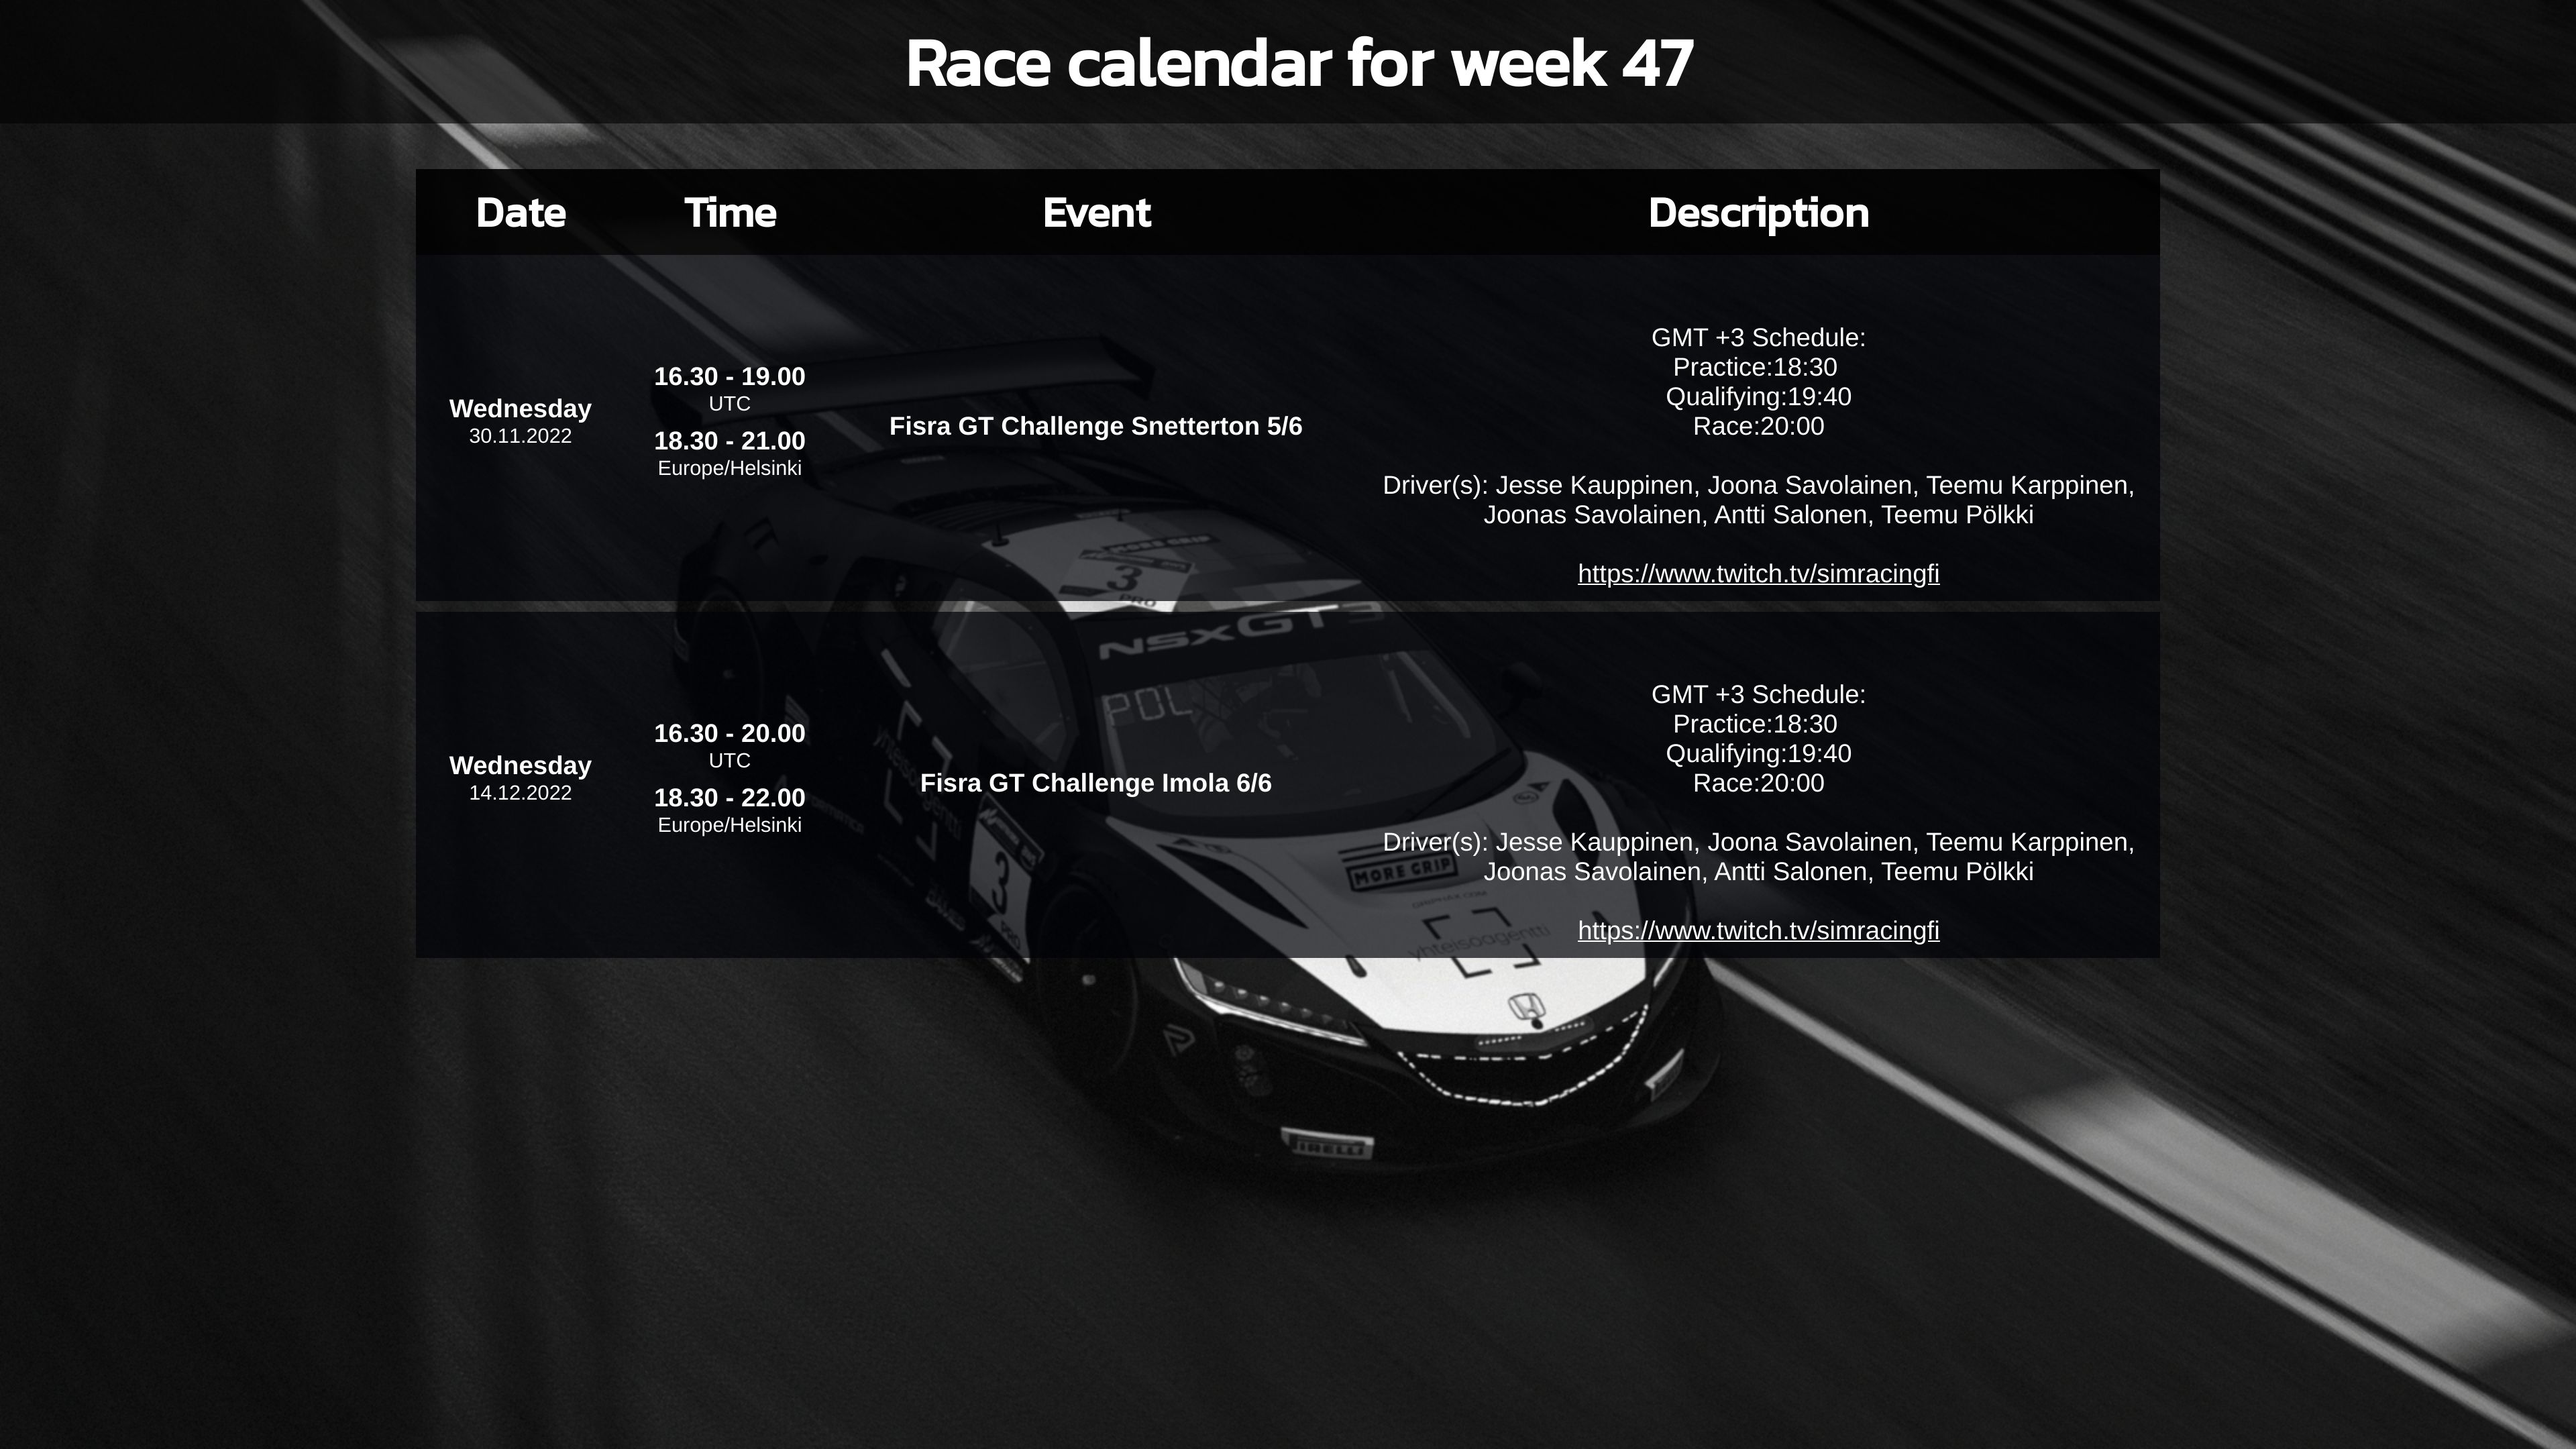
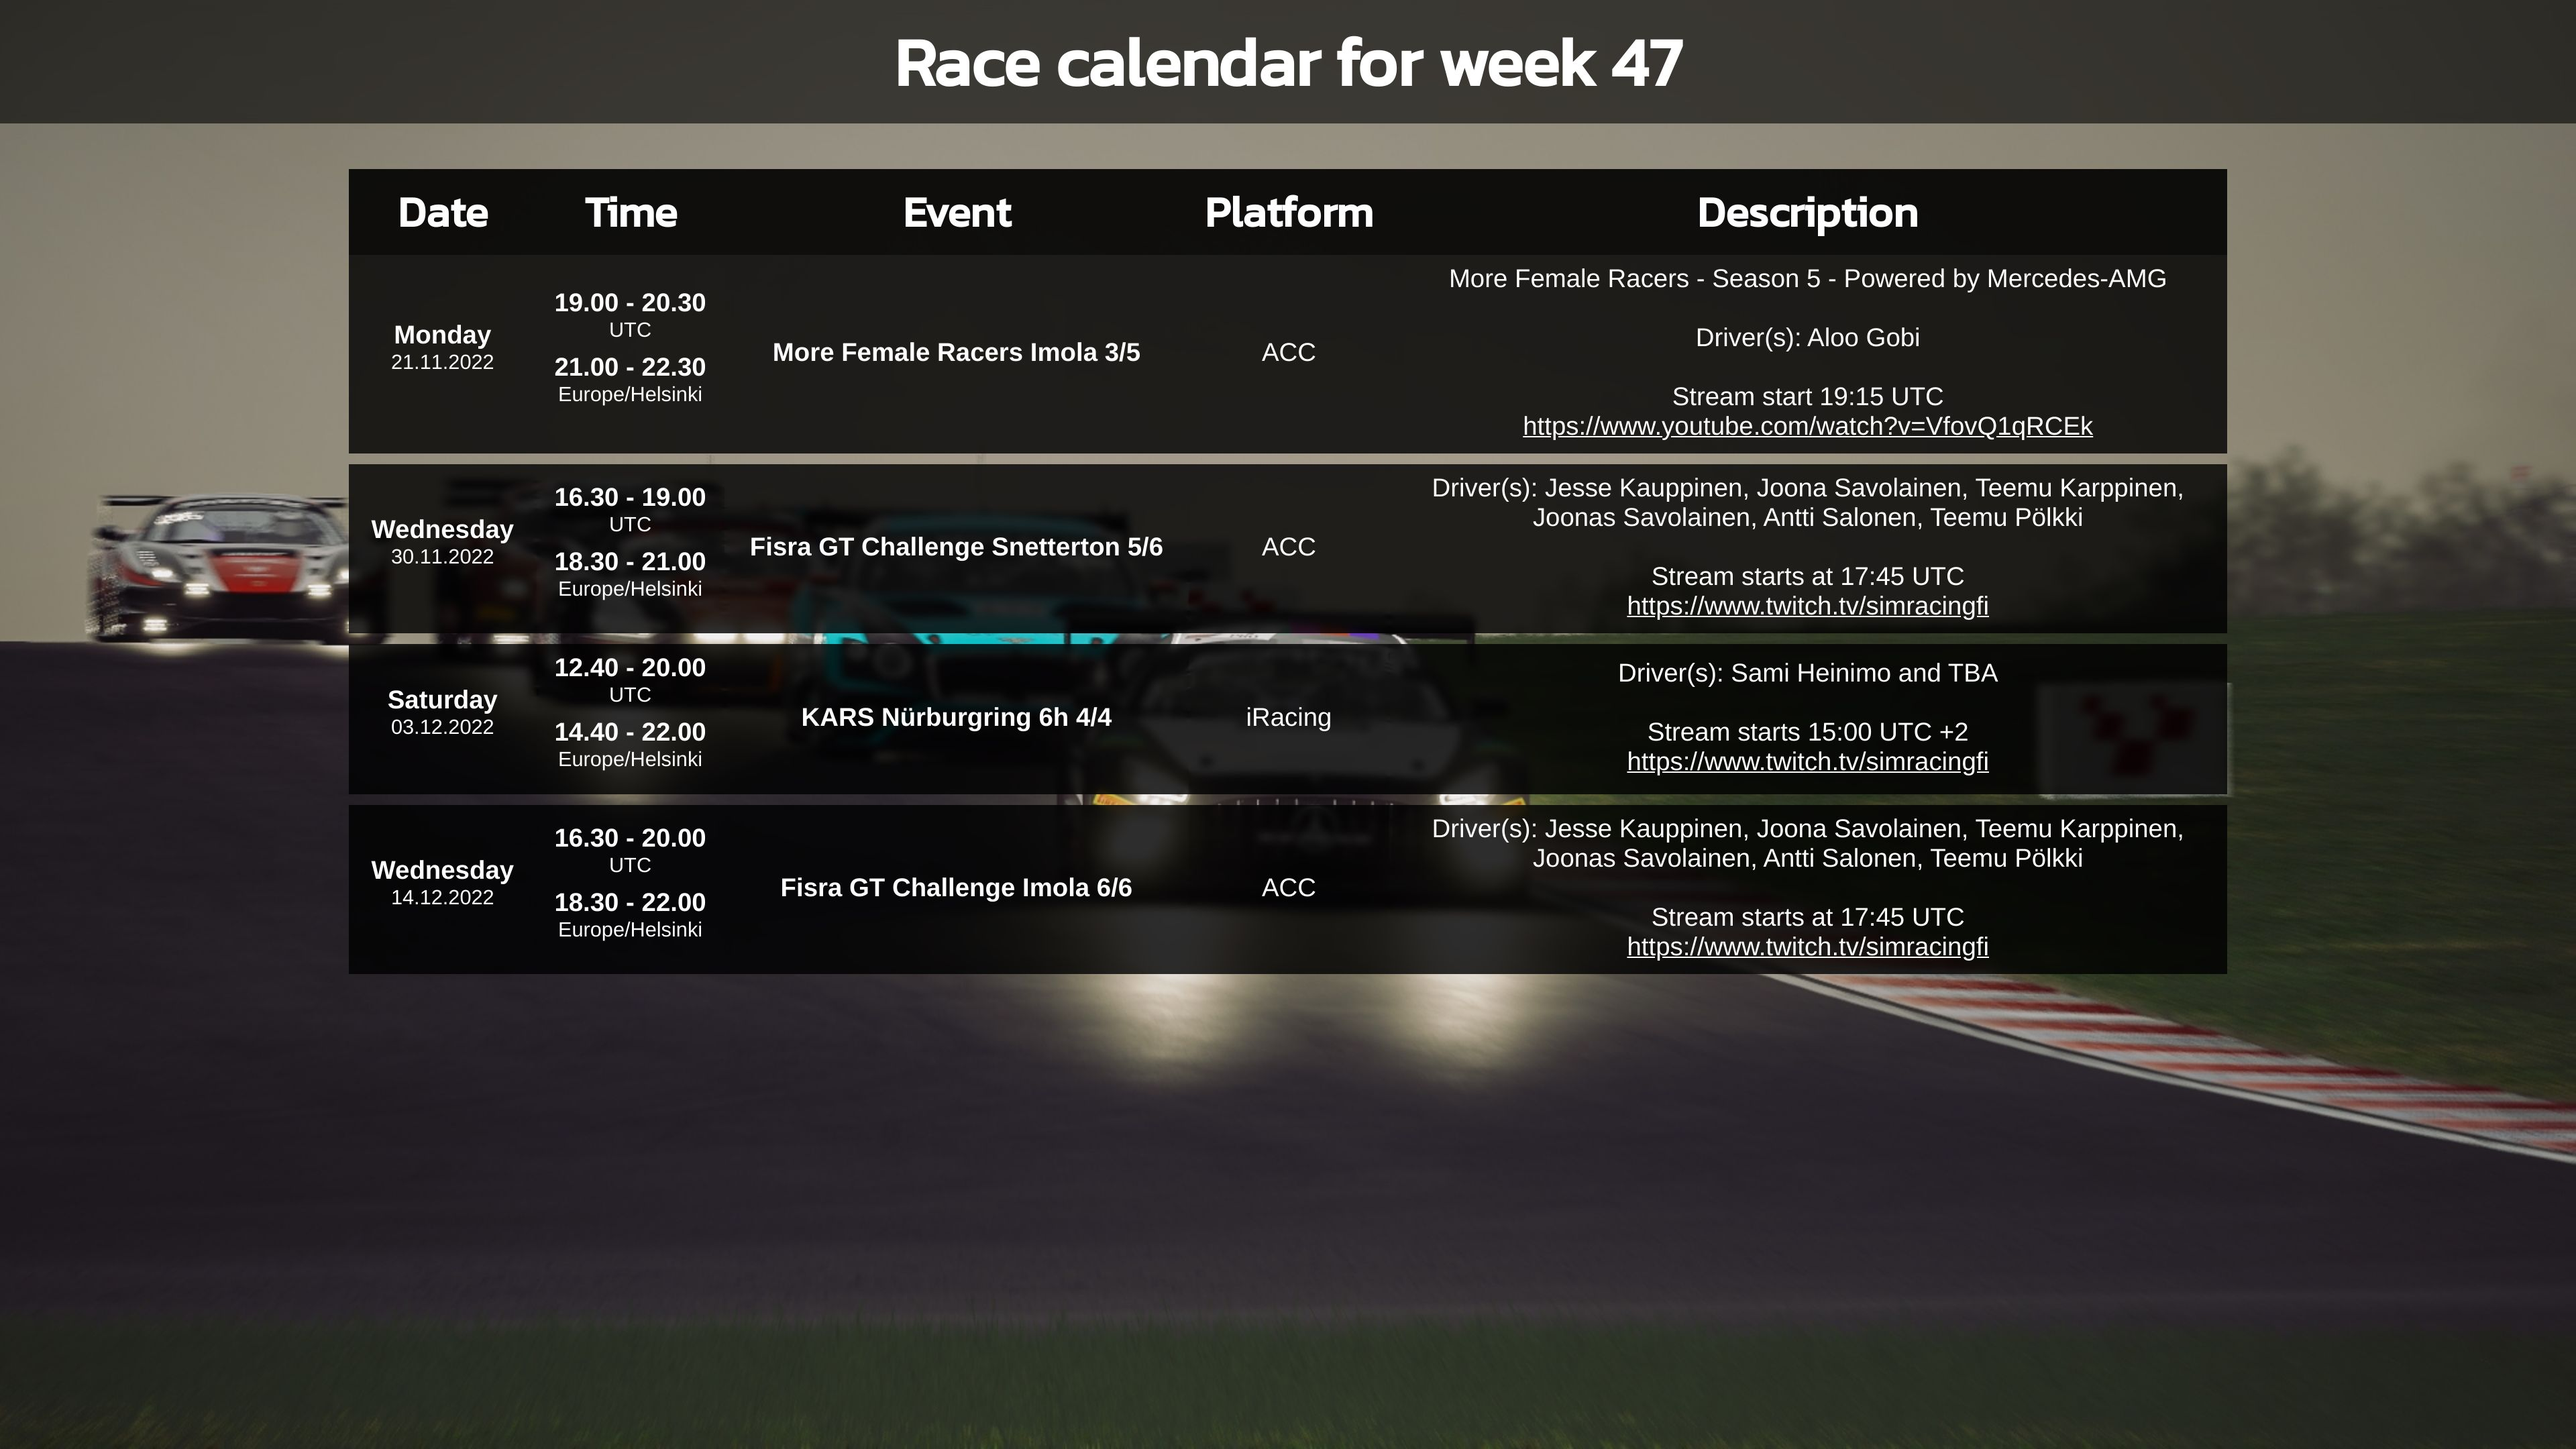
finalizing

diff --git a/assets/html/schedule.html b/assets/html/schedule.html
@@ -1,7 +1,4 @@
-<!DOCTYPE html>
-<html lang="en">
-
-<head>
+<!DOCTYPE html><html lang="en"><head>
   <meta charset="UTF-8">
   <meta http-equiv="X-UA-Compatible" content="IE=edge">
   <meta name="viewport" content="width=device-width, initial-scale=1.0">
@@ -38,7 +35,7 @@
     table {
       position: relative;
       top: 110px;
-      width: 1300px;
+      width: 1400px;
       margin: auto;
       border-collapse: separate;
       border-spacing: 0px 8px;
@@ -83,19 +80,23 @@
     }
 
     #date {
-      width: 12%;
+      width: 10%;
     }
 
     #time {
-      width: 12%;
+      width: 10%;
     }
 
     #event {
-      width: 30%
+      width: 25%
+    }
+
+    #platform {
+      width: 10%;
     }
 
     #desc {
-      width: 46%
+      width: 45%
     }
 
     #heading {
@@ -148,10 +149,6 @@
       margin-bottom: 8px;
     }
 
-    .desc::first-line {
-      font-weight: 600;
-    }
-
     tbody tr td {
       z-index: 1;
       position: relative;
@@ -182,9 +179,8 @@
 </head>
 
 <body>
-  <div id="container" style="background-image: url(../img/19.png);">
+  <div id="container" style="background-image: url(../img/17.png);">
     <h1 id="heading">Race calendar </h1>
-
     <div id="cal-container">
       <script>
         currentDate = new Date();
@@ -201,40 +197,19 @@
             <th id="date">Date</th>
             <th id="time">Time</th>
             <th id="event">Event</th>
+            <th id="platform">Platform</th>
             <th id="desc">Description</th>
           </tr>
         </thead>
         <tbody id="dynamic-data">
-          <tr>
-            <td class="bold">Wednesday<span>30.11.2022</span></td>
-            <td class="bold">16.30 - 19.00 <span>UTC</span>18.30 - 21.00 <span>Europe/Helsinki</span></td>
-            <td class="bold">Fisra GT Challenge Snetterton 5/6</td>
-            <td class="desc">
-              <html-blob>Race:20:00<br><br>Driver(s): Jesse Kauppinen,
-                Joona Savolainen, Teemu Karppinen, Joonas Savolainen, Antti Salonen, Teemu Pölkki<br><br><a
-                  href="https://www.twitch.tv/simracingfi"><u>https://www.twitch.tv/simracingfi</u></a></html-blob>
-            </td>
-          </tr>
-          <tr>
-            <td class="bold">Wednesday<span>14.12.2022</span></td>
-            <td class="bold">16.30 - 20.00 <span>UTC</span>18.30 - 22.00 <span>Europe/Helsinki</span></td>
-            <td class="bold">Fisra GT Challenge Imola 6/6</td>
-            <td class="desc">
-              <html-blob>Race:20:00<br><br>Driver(s): Jesse Kauppinen,
-                Joona Savolainen, Teemu Karppinen, Joonas Savolainen, Antti Salonen, Teemu Pölkki<br><br><a
-                  href="https://www.twitch.tv/simracingfi"><u>https://www.twitch.tv/simracingfi</u></a></html-blob>
-            </td>
-          </tr>
-        </tbody>
+        <tr><td class="bold">Monday<span>21.11.2022</span></td><td class="bold">19.00 - 20.30 <span>UTC</span>21.00 - 22.30 <span>Europe/Helsinki</span></td><td class="bold">More Female Racers Imola 3/5</td><td>ACC</td><td class="desc">More Female Racers - Season 5 - Powered by Mercedes-AMG<br><br>Driver(s): Aloo Gobi<br><br>Stream start 19:15 UTC<br><a href="https://www.youtube.com/watch?v=VfovQ1qRCEk" id="ow1288" __is_owner="true">https://www.youtube.com/watch?v=VfovQ1qRCEk</a></td></tr><tr><td class="bold">Wednesday<span>30.11.2022</span></td><td class="bold">16.30 - 19.00 <span>UTC</span>18.30 - 21.00 <span>Europe/Helsinki</span></td><td class="bold">Fisra GT Challenge Snetterton 5/6</td><td>ACC</td><td class="desc"><html-blob><u></u>Driver(s): Jesse Kauppinen, Joona Savolainen, Teemu Karppinen, Joonas Savolainen, Antti Salonen, Teemu Pölkki<br><br>Stream starts at 17:45 UTC<br><a href="https://www.twitch.tv/simracingfi">https://www.twitch.tv/simracingfi</a><u></u></html-blob></td></tr><tr><td class="bold">Saturday<span>03.12.2022</span></td><td class="bold">12.40 - 20.00 <span>UTC</span>14.40 - 22.00 <span>Europe/Helsinki</span></td><td class="bold">KARS Nürburgring 6h 4/4</td><td>iRacing</td><td class="desc"><html-blob>Driver(s): Sami Heinimo and TBA<br><br>Stream starts 15:00 UTC +2<br><a href="https://www.twitch.tv/simracingfi" id="ow1646" __is_owner="true">https://www.twitch.tv/simracingfi</a><u></u></html-blob></td></tr><tr><td class="bold">Wednesday<span>14.12.2022</span></td><td class="bold">16.30 - 20.00 <span>UTC</span>18.30 - 22.00 <span>Europe/Helsinki</span></td><td class="bold">Fisra GT Challenge Imola 6/6</td><td>ACC</td><td class="desc"><html-blob><u></u>Driver(s): Jesse Kauppinen, Joona Savolainen, Teemu Karppinen, Joonas Savolainen, Antti Salonen, Teemu Pölkki<br><br>Stream starts at 17:45 UTC<br><a href="https://www.twitch.tv/simracingfi">https://www.twitch.tv/simracingfi</a><u></u></html-blob></td></tr></tbody>
       </table>
     </div>
   </div>
 
 
-  <script>
+<script>
 
-  </script>
+</script>
 
-</body>
-
-</html>
+</body></html>

diff --git a/assets/html/index.html b/assets/html/index.html
@@ -38,7 +38,7 @@
     table {
       position: relative;
       top: 110px;
-      width: 1300px;
+      width: 1400px;
       margin: auto;
       border-collapse: separate;
       border-spacing: 0px 8px;
@@ -83,19 +83,23 @@
     }
 
     #date {
-      width: 12%;
+      width: 10%;
     }
 
     #time {
-      width: 12%;
+      width: 10%;
     }
 
     #event {
-      width: 30%
+      width: 25%
+    }
+
+    #platform {
+      width: 10%;
     }
 
     #desc {
-      width: 46%
+      width: 45%
     }
 
     #heading {
@@ -148,10 +152,6 @@
       margin-bottom: 8px;
     }
 
-    .desc::first-line {
-      font-weight: 600;
-    }
-
     tbody tr td {
       z-index: 1;
       position: relative;
@@ -200,6 +200,7 @@
             <th id="date">Date</th>
             <th id="time">Time</th>
             <th id="event">Event</th>
+            <th id="platform">Platform</th>
             <th id="desc">Description</th>
           </tr>
         </thead>

diff --git a/index.js b/index.js
@@ -40,7 +40,7 @@ client.once('ready', async () => {
     const UTCisoStartTime = new Intl.DateTimeFormat("fi-FI", { ...timeOptions, timeZone: "UTC" }).format(startdate);
     const UTCisoEndTime = new Intl.DateTimeFormat("fi-FI", { ...timeOptions, timeZone: "UTC" }).format(enddate);
 
-    let row = `<tr><td class="bold">${textDate}<span>${isoDate}</span></td><td class="bold" >${UTCisoStartTime} - ${UTCisoEndTime} <span>UTC</span>${isoStartTime} - ${isoEndTime} <span>Europe/Helsinki</span></td><td class="bold">${event.summary}</td><td class="desc">${event.description}</td></tr>`;
+    let row = `<tr><td class="bold">${textDate}<span>${isoDate}</span></td><td class="bold" >${UTCisoStartTime} - ${UTCisoEndTime} <span>UTC</span>${isoStartTime} - ${isoEndTime} <span>Europe/Helsinki</span></td><td class="bold">${event.summary}</td><td>${event.location}</td><td class="desc">${event.description}</td></tr>`;
 
     $('tbody').append(row);
   });
